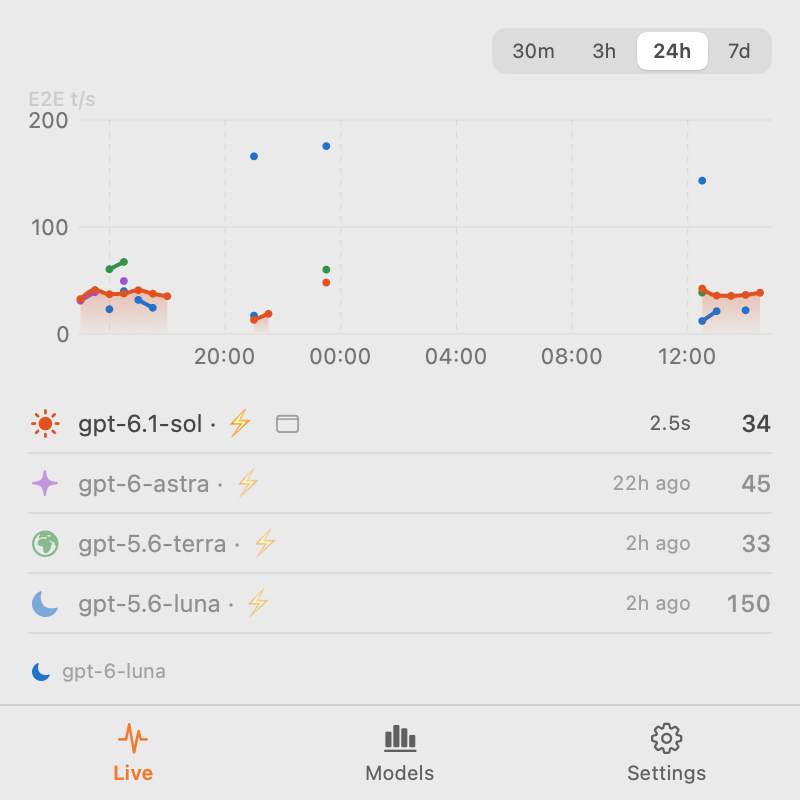
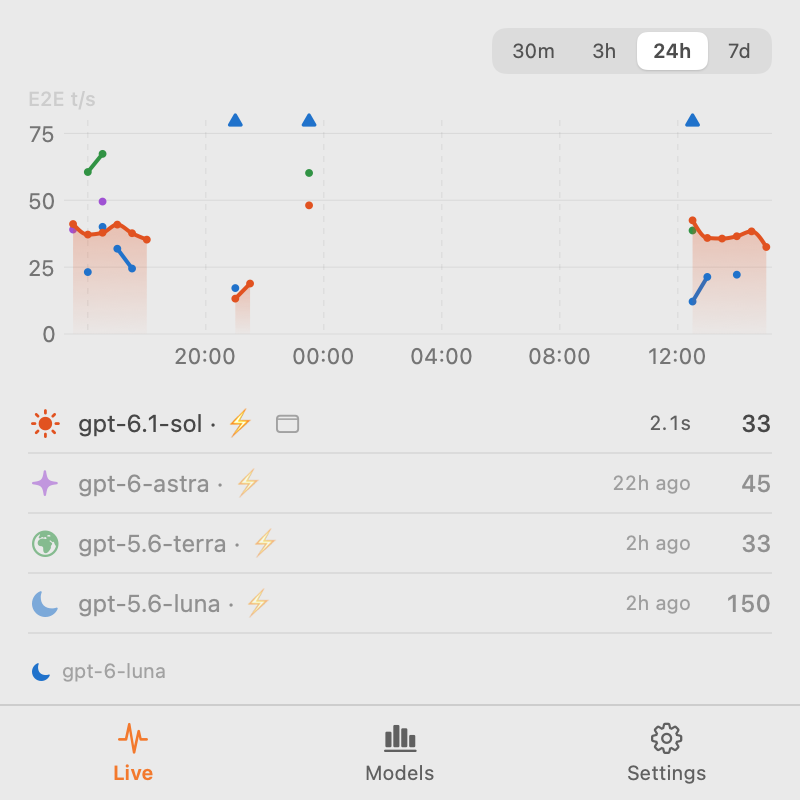
feat: fit the Live y axis to the lines and mark points above it
A few points far above the rest, such as short side requests on a fast
model, no longer flatten every line: the axis covers the other points
and the menu bar series, and the outliers sit on the top edge as
triangles with their values shown on hover.

diff --git a/Sources/CodexTPS/Popover.swift b/Sources/CodexTPS/Popover.swift
@@ -270,6 +270,7 @@ private struct NowChart: View {
 
     var body: some View {
         let range = selection.range
+        let top = yTop()
 
         VStack(alignment: .leading, spacing: 6) {
             HStack {
@@ -278,19 +279,23 @@ private struct NowChart: View {
             }
             Chart {
                 ForEach(model.points) { p in
+                    // Points above the axis sit on its top edge as triangles; hovering shows their value.
+                    let above = p.tps > top
+                    let y = min(p.tps, top)
                     if p.key == shown {
                         let c = SeriesPalette.color(p.key.family)
-                        AreaMark(x: .value("Time", p.bucket), y: .value("TPS", p.tps), series: .value("Segment", "\(p.key.label)#\(p.segment)"), stacking: .unstacked)
+                        AreaMark(x: .value("Time", p.bucket), y: .value("TPS", y), series: .value("Segment", "\(p.key.label)#\(p.segment)"), stacking: .unstacked)
                             .foregroundStyle(LinearGradient(colors: [c.opacity(0.28), c.opacity(0.02)], startPoint: .top, endPoint: .bottom))
                             .interpolationMethod(.monotone)
                     }
-                    LineMark(x: .value("Time", p.bucket), y: .value("TPS", p.tps), series: .value("Segment", "\(p.key.label)#\(p.segment)"))
+                    LineMark(x: .value("Time", p.bucket), y: .value("TPS", y), series: .value("Segment", "\(p.key.label)#\(p.segment)"))
                         .foregroundStyle(SeriesPalette.color(p.key.family))
                         .lineStyle(StrokeStyle(lineWidth: 2, lineCap: .round, lineJoin: .round))
                         .interpolationMethod(.monotone)
-                    PointMark(x: .value("Time", p.bucket), y: .value("TPS", p.tps))
+                    PointMark(x: .value("Time", p.bucket), y: .value("TPS", y))
                         .foregroundStyle(SeriesPalette.color(p.key.family))
-                        .symbolSize(12)
+                        .symbol(above ? .triangle : .circle)
+                        .symbolSize(above ? 36 : 12)
                 }
                 if let b = selection.bucket {
                     RuleMark(x: .value("Time", b))
@@ -306,7 +311,7 @@ private struct NowChart: View {
                 }
             }
             .chartXScale(domain: stats.now.addingTimeInterval(-range.duration)...stats.now)
-            .chartYScale(domain: .automatic(includesZero: true))
+            .chartYScale(domain: 0...top)
             .chartXAxis {
                 AxisMarks(values: range.ticks(until: stats.now)) { value in
                     AxisGridLine().foregroundStyle(Color.secondary.opacity(0.15))
@@ -327,6 +332,27 @@ private struct NowChart: View {
             .chartXSelection(value: Binding(get: { selection.bucket }, set: { selection.bucket = $0.map(range.bucketStart) }))
             .frame(minHeight: 96, maxHeight: .infinity)
         }
+    }
+
+    /// Top of the y axis. A few points far above the rest (e.g. short side requests on a fast
+    /// model) would flatten every line, so the axis covers the others and the menu bar series;
+    /// when more than a quarter of the points are that high, they are no outliers and all fit.
+    private func yTop() -> Double {
+        let values = model.points.map(\.tps).sorted()
+        guard let highest = values.last else { return 10 }
+        guard values.count >= 4 else { return niceCeiling(highest) }
+        let q1 = values.quantile(0.25), q3 = values.quantile(0.75)
+        let fence = q3 + 3 * max(q3 - q1, q3 * 0.25)
+        let outliers = model.points.filter { $0.tps > fence && $0.key != shown }.count
+        guard outliers > 0, outliers * 4 <= values.count else { return niceCeiling(highest) }
+        let kept = model.points.filter { $0.tps <= fence || $0.key == shown }.map(\.tps).max() ?? fence
+        return niceCeiling(kept * 1.1)
+    }
+
+    /// The smallest round number (1, 1.5, 2, 2.5, 3, 4, 5, 6 or 8 times a power of ten) at or above `v`.
+    private func niceCeiling(_ v: Double) -> Double {
+        let magnitude = pow(10, (log10(max(v, 1))).rounded(.down))
+        return [1, 1.5, 2, 2.5, 3, 4, 5, 6, 8, 10].map { $0 * magnitude }.first { $0 >= v } ?? v
     }
 }
 

diff --git a/README.md b/README.md
@@ -8,7 +8,7 @@ macOS menu bar app that shows how fast Codex models generate: output tokens per 
 </p>
 
 - **Menu bar**: model and speed of one series, e.g. `⚡ 6.1-sol 50 t/s`: the pinned series, or else the one generating the most tokens lately, each response counting half as much for every 5 minutes of age (the same series the Live list starts with). A pin silent for an hour gives way while another series answers. A 1-minute token-weighted average by default, or 5 minutes, or the latest response. After 2 minutes without responses the value turns grey with its age (`6.1-sol 47 t/s · 12m`); after an hour only an icon remains. During a pause it keeps the last value instead of blanking.
-- **Live**: a chart of the series over 30m / 3h / 24h / 7d and the series list: the menu bar series first, then the ones answering now, each with its 1-minute speed and TTFT. Hovering the chart switches the list, and the series beyond it, to that moment's values; a click on a series pins it to the menu bar.
+- **Live**: a chart of the series over 30m / 3h / 24h / 7d (a few points far above the rest sit on the top edge as triangles, so they do not flatten the lines) and the series list: the menu bar series first, then the ones answering now, each with its 1-minute speed and TTFT. Hovering the chart switches the list, and the series beyond it, to that moment's values; a click on a series pins it to the menu bar.
 - **Models**: series ranked by median per-response speed over 1h / 24h / 7d / 30d, with a p10–p90 bar and median TTFT.
 - **Settings**: E2E or decode speed, menu bar metric, split by reasoning effort, launch at login, Codex telemetry setup.
 
